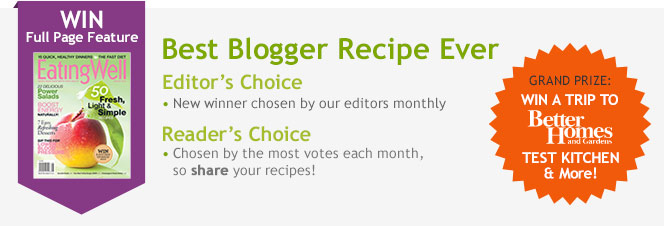
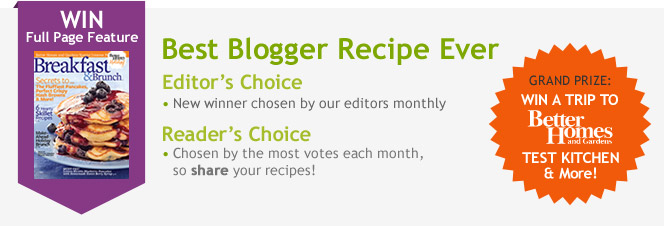
mbr-58 updated image

diff --git a/apps/frontend/modules/contests/templates/indexSuccess.php b/apps/frontend/modules/contests/templates/indexSuccess.php
@@ -23,7 +23,7 @@ unitValues: {
   <div id="contest-detail">
     <? include_partial('global/sharebar') ?>
     
-    <!-- <img src="/img/contests/BestBloggersContest.jpg" class="mb20" /> -->
+    <img src="/img/contests/BestBloggersContest.jpg" class="mb20" /> 
     
     <p class="title green">Active Contests</p>
   </div>
